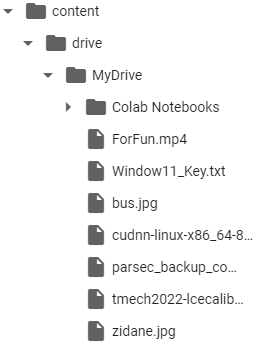
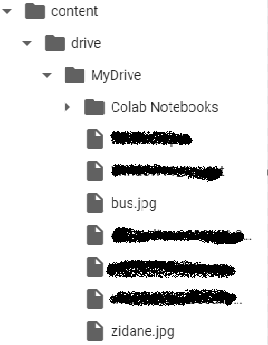
0424

diff --git a/README.md b/README.md
@@ -52,4 +52,6 @@
 
     <img src="./config/cell_1.png">
 
-    위의 사진과 같이 실행하고 나서 
+    위의 사진과 같이 실행하고 나서 변화된 Directory를 살펴보면 아래와 같이 나타나는 것을 확인할 수 있다.
+
+    <img src="./config/content_configuration.png">
